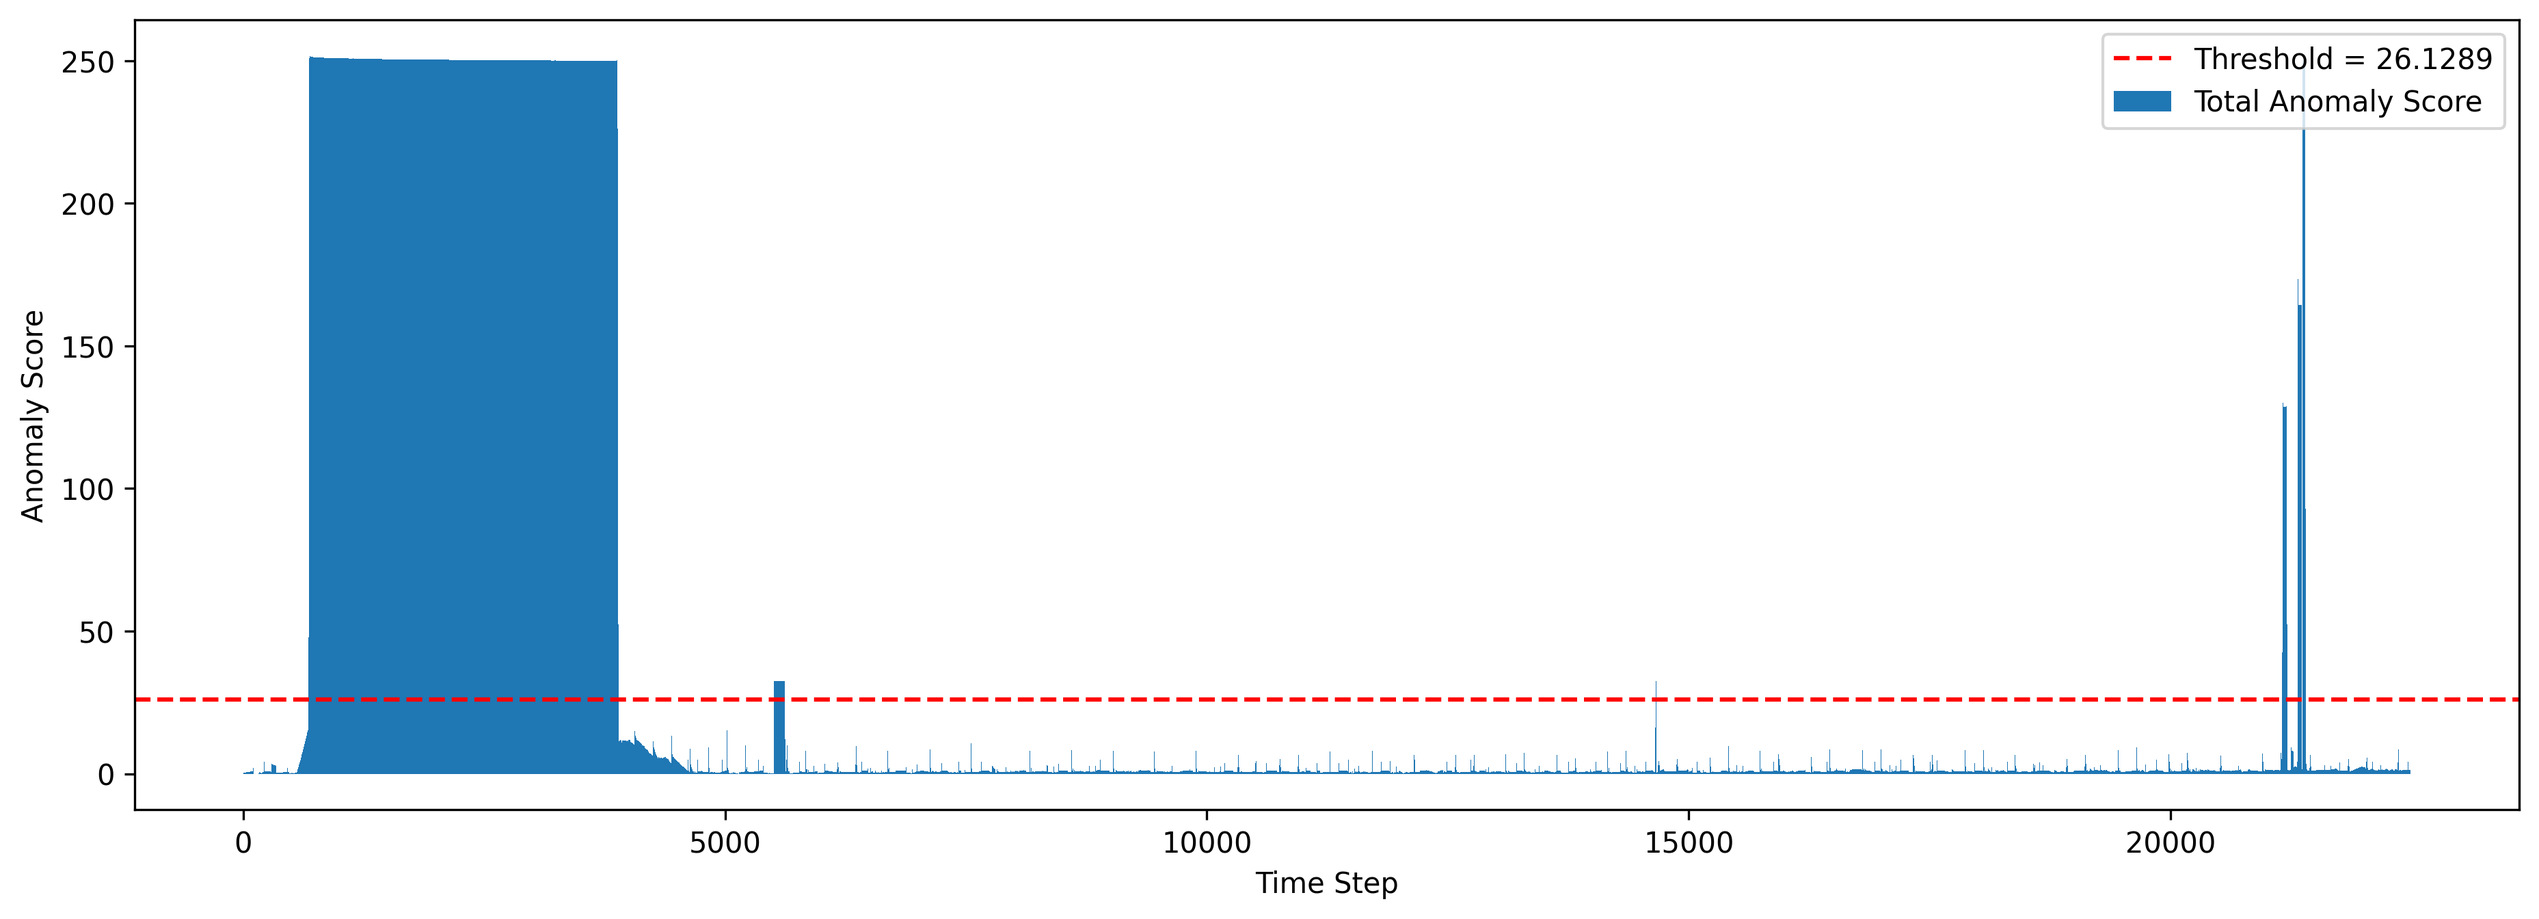
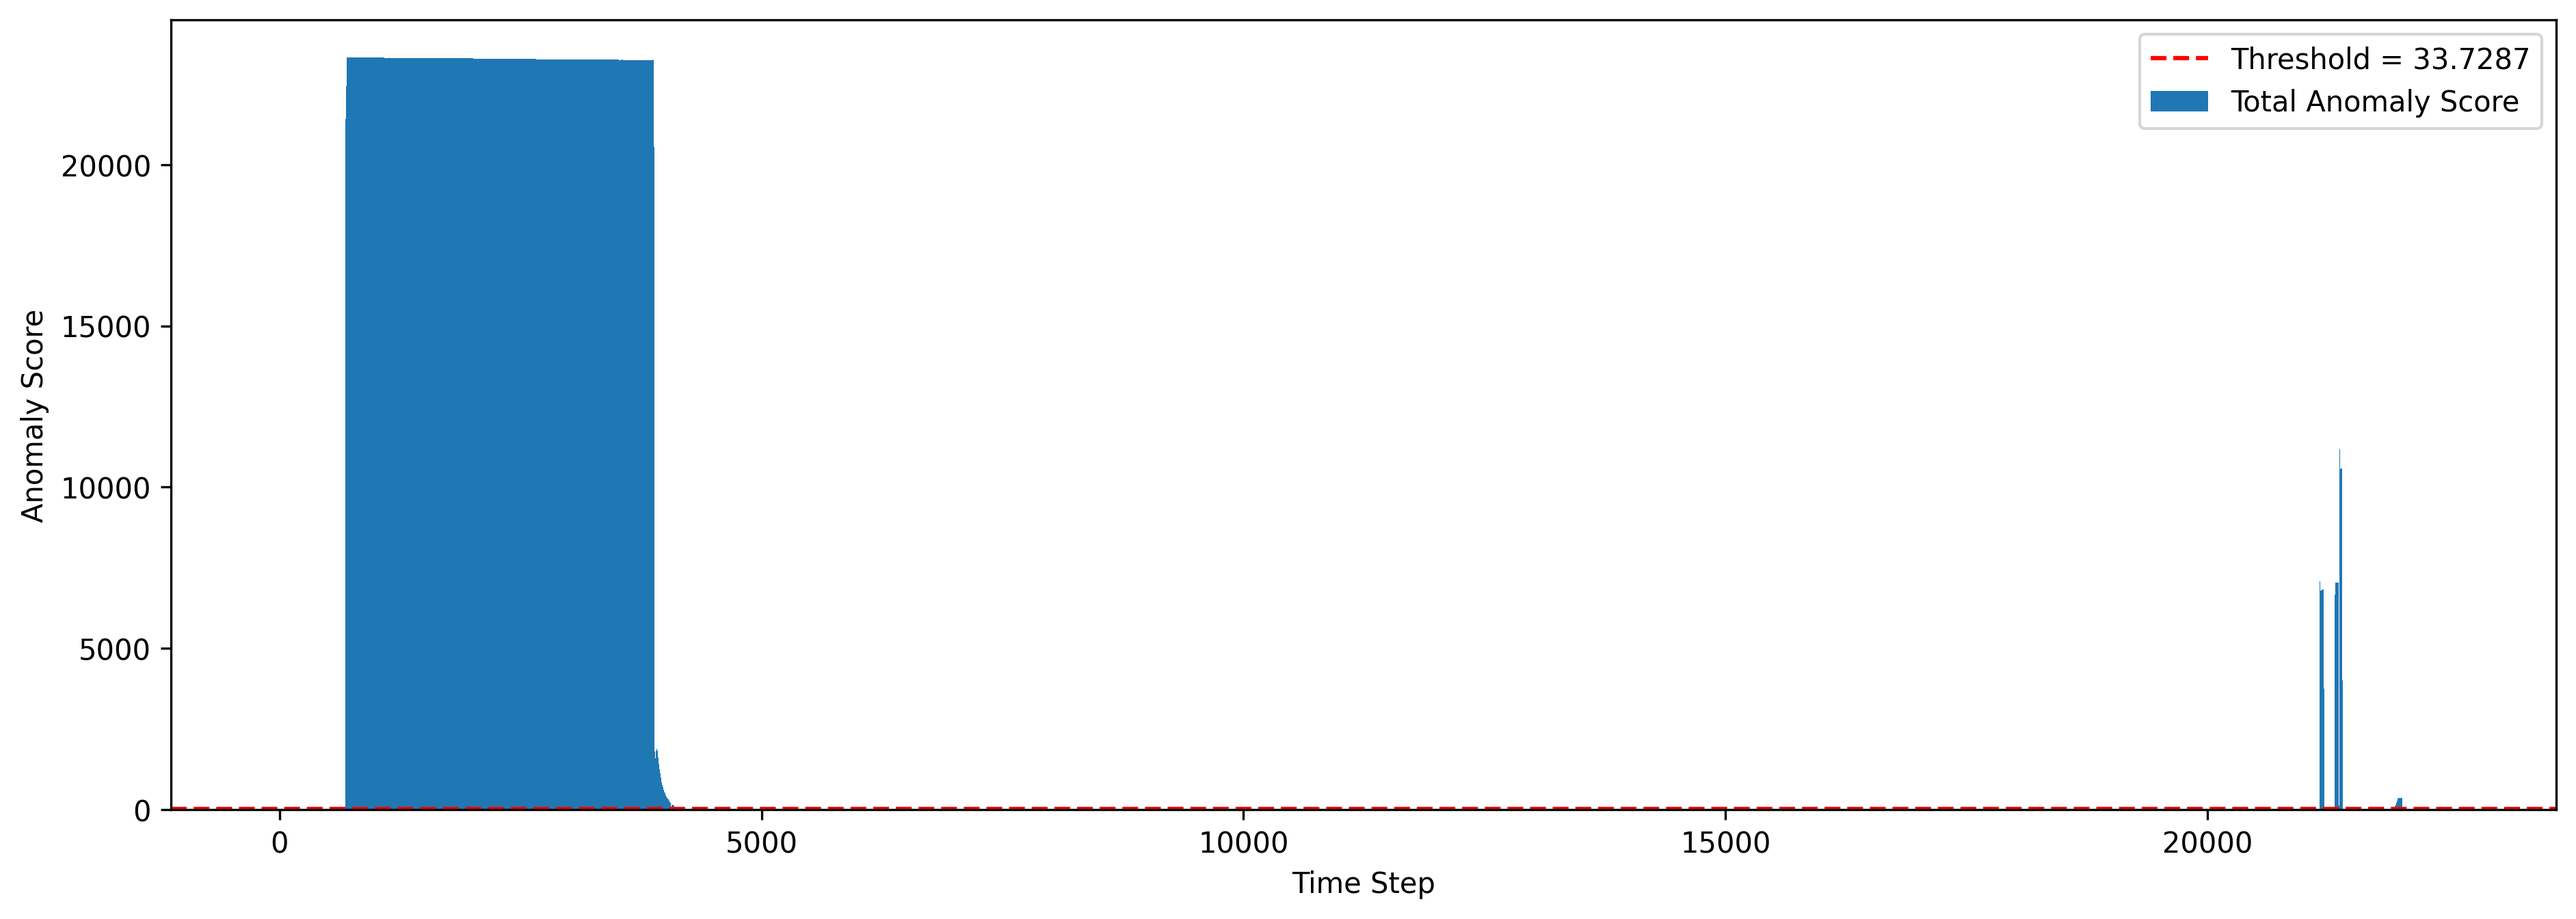
xlsx result csv generate

diff --git a/models/GDN_input_concat.py b/models/GDN_input_concat.py
@@ -1,3 +1,4 @@
+# Here, instead of adding temporal information element-wise to the node representation vector, I directly concatenate it with the input of the existing FCN layer.
 import numpy as np
 import torch
 import matplotlib.pyplot as plt
@@ -33,10 +34,10 @@ class OutLayer(nn.Module):
         for i in range(layer_num):
             # last layer, output shape:1
             if i == layer_num-1:
-                modules.append(nn.Linear(in_num if layer_num == 1 else inter_num, 1))
+                modules.append(nn.Linear( in_num if layer_num == 1 else inter_num, 1))
             else:
                 layer_in_num = in_num if i == 0 else inter_num
-                modules.append(nn.Linear(layer_in_num, inter_num))
+                modules.append(nn.Linear( layer_in_num, inter_num ))
                 modules.append(nn.BatchNorm1d(inter_num))
                 modules.append(nn.ReLU())
 
@@ -57,16 +58,16 @@ class OutLayer(nn.Module):
 
 
 class GNNLayer(nn.Module):
-    def __init__(self, in_channel, out_channel, embed_dim, inter_dim=0, heads=1, node_num=100, model_type="GDN"):
+    def __init__(self, in_channel, out_channel, inter_dim=0, heads=1, node_num=100, model_type="GDN"):
         super(GNNLayer, self).__init__()
 
 
-        self.gnn = GraphLayer(in_channel, out_channel, embed_dim, node_num, inter_dim=inter_dim, heads=heads, concat=False, model_type=model_type)
+        self.gnn = GraphLayer(in_channel, out_channel, node_num, inter_dim=inter_dim, heads=heads, concat=False, model_type=model_type)
         
         if model_type == "GDN":
             self.bn = nn.BatchNorm1d(out_channel)
         else:
-            self.bn = nn.BatchNorm1d(out_channel*2)
+            self.bn = nn.BatchNorm1d(out_channel)
         self.relu = nn.ReLU()
         self.leaky_relu = nn.LeakyReLU()
 
@@ -99,9 +100,10 @@ class GNNLayer(nn.Module):
                 
                 temporal_out = temporal_out.unsqueeze(1).repeat(1, node_num, 1).view(batch_num * node_num, d)
                 
-                out = torch.cat([out, temporal_out], dim=-1)
+                # out = torch.cat([out, temporal_out], dim=-1)
 
                 out = F.relu(out)
+                temporal_out = F.relu(temporal_out)
             else:
                 out = F.relu(out)
         else:
@@ -109,8 +111,9 @@ class GNNLayer(nn.Module):
                 raise ValueError("Choose model_type between [GDN/STGDN]")
 
         out = self.bn(out)
+        temporal_out = self.bn(temporal_out)
         
-        return self.relu(out)
+        return self.relu(out), self.relu(temporal_out)
 
 
 class GDN(nn.Module):
@@ -128,15 +131,15 @@ class GDN(nn.Module):
         if model_type == "GDN":
             embed_dim = dim
         else:
-            embed_dim = dim*2
+            embed_dim = dim
 
         self.embedding = nn.Embedding(node_num, embed_dim)
-        self.bn_outlayer_in = nn.BatchNorm1d(embed_dim)
+        self.bn_outlayer_in = nn.BatchNorm1d(embed_dim*2)
 
 
         edge_set_num = len(edge_index_sets)
         self.gnn_layers = nn.ModuleList([
-            GNNLayer(input_dim, dim, embed_dim, inter_dim=dim+embed_dim, heads=1, node_num=node_num, model_type=model_type) for i in range(edge_set_num)
+            GNNLayer(input_dim, dim, inter_dim=dim+embed_dim, heads=1, node_num=node_num, model_type=model_type) for i in range(edge_set_num)
         ])
 
 
@@ -184,6 +187,7 @@ class GDN(nn.Module):
         time_edge_index = get_batch_edge_index(gated_edge_index, batch_num, all_feature).to(device)
 
         gcn_outs = []
+        tcn_outs = []
         for i, edge_index in enumerate(edge_index_sets):
             edge_num = edge_index.shape[1]
             cache_edge_index = self.cache_edge_index_sets[i]
@@ -217,17 +221,22 @@ class GDN(nn.Module):
 
             batch_gated_edge_index = get_batch_edge_index(gated_edge_index, batch_num, node_num).to(device)
             
-            gcn_out = self.gnn_layers[i](x, batch_gated_edge_index, node_num=node_num*batch_num, embedding=all_embeddings, temporal_x=temporal_x, time_edge_index=time_edge_index, model_type=self.model_type)
+            gcn_out, tcn_out = self.gnn_layers[i](x, batch_gated_edge_index, node_num=node_num*batch_num, embedding=all_embeddings, temporal_x=temporal_x, time_edge_index=time_edge_index, model_type=self.model_type)
 
             
             gcn_outs.append(gcn_out)
+            tcn_outs.append(tcn_out)
 
         x = torch.cat(gcn_outs, dim=1)
         x = x.view(batch_num, node_num, -1)
 
+        tx = torch.cat(tcn_outs, dim=1)
+        tx = tx.view(batch_num, node_num, -1)
 
         indexes = torch.arange(0, node_num).to(device)
         out = torch.mul(x, self.embedding(indexes))
+
+        out = torch.cat([out, tx], dim=-1)
         
         out = out.permute(0,2,1)
         out = F.relu(self.bn_outlayer_in(out))

diff --git a/main.py b/main.py
@@ -166,8 +166,38 @@ class Main():
         return train_dataloader, val_dataloader
 
 
-    def plot_anomaly_scores_with_threshold(self, total_err_scores, threshold, save_path=None):
-        max_anomaly_scores = np.max(total_err_scores, axis=0)
+    def get_top_anomalies_as_dataframe(self, anomaly_score, columns, labels, detection, top_n=10):
+        """
+        :param anomaly_score: Anomaly scores, type: Pandas DataFrame (rows: timestamps, columns: sensors)
+        :param top_n: Number of top anomalies to extract, default is 5
+        :return: Pandas DataFrame with timestamp as index and top anomalies in 1~N columns
+        """
+        anomaly_score.columns = columns
+
+        results = []
+
+        for i, row in anomaly_score.iterrows():
+            top_indices = row.sort_values(ascending=False).index[:top_n]
+            top_scores = row.sort_values(ascending=False).iloc[:top_n]
+
+            result_dict = {str(j + 1): f"{col}: {round(score, 3)}" for j, (col, score) in enumerate(zip(top_indices, top_scores))}
+            result_dict["timestamp"] = i
+            results.append(result_dict)
+
+        result_df = pd.DataFrame(results).set_index("timestamp")
+
+        additional_data = pd.DataFrame()
+        if labels is not None:
+            additional_data['ground truth label'] = labels
+        if detection is not None:
+            additional_data['model prediction'] = detection
+
+        result_df = pd.concat([additional_data, result_df], axis=1)
+
+        return result_df
+
+
+    def plot_anomaly_scores_with_threshold(self, max_anomaly_scores, threshold, save_path=None):
         time_steps = np.arange(len(max_anomaly_scores))
 
         plt.figure(figsize=(15, 5))
@@ -192,9 +222,14 @@ class Main():
 
         test_labels = np_test_result[2, :, 0].tolist()
         adj_labels = np_adj_result[2, :, 0].tolist()
+        # np.save('./test_labels.npy', test_labels)
     
         test_scores, normal_scores = get_full_err_scores(test_result, val_result)
+        ano_scores = np.array(test_scores).T
+        anomaly_df = pd.DataFrame(ano_scores)
 
+        # np.save('./test_scores.npy', test_scores)
+        
         if self.env_config['report'] == 'val':
             top1_adj_info = get_best_performance_data(test_scores, adj_labels, dilation_window, topk=1)
             threshold = top1_adj_info[-1]
@@ -231,8 +266,19 @@ class Main():
 
         fig_path = f'./fig/{self.env_config["save_path"]}/{self.train_config["model_type"]}/total_anomaly.png'
         Path(os.path.dirname(fig_path)).mkdir(parents=True, exist_ok=True)
-        self.plot_anomaly_scores_with_threshold(test_scores, threshold, save_path=fig_path)
+        
+        max_anomaly_scores = np.max(test_scores, axis=0)
+        self.plot_anomaly_scores_with_threshold(max_anomaly_scores, threshold, save_path=fig_path)
 
+        detection = [1 if score > threshold else 0 for score in max_anomaly_scores]
+        detection = detection[train_config['slide_win']:]
+
+        labels = test_labels[train_config['slide_win']:]
+
+        rca_csv = self.get_top_anomalies_as_dataframe(anomaly_df, self.feature_map, labels, detection, top_n=3)
+        csv_save_dir = f'./csv/{self.env_config["save_path"]}'
+        os.makedirs(csv_save_dir, exist_ok=True)
+        rca_csv.to_csv(f'./csv/{self.env_config["save_path"]}/test_result.csv')
 
     def get_save_path(self, feature_name=''):
 

diff --git a/models/graph_layer.py b/models/graph_layer.py
@@ -10,7 +10,7 @@ import math
 import torch.nn.init as init
 
 class GraphLayer(MessagePassing):
-    def __init__(self, in_channels, out_channels, node_num, heads=1, concat=True, model_type="GDN",
+    def __init__(self, in_channels, out_channels, embed_dim, node_num, heads=1, concat=True, model_type="GDN",
                  negative_slope=0.2, dropout=0, bias=True, inter_dim=-1,**kwargs):
         super(GraphLayer, self).__init__(aggr='add', **kwargs)
 
@@ -32,8 +32,8 @@ class GraphLayer(MessagePassing):
             self.att_em_i = Parameter(torch.Tensor(1, heads, out_channels))
             self.att_em_j = Parameter(torch.Tensor(1, heads, out_channels))
         else:
-            self.att_em_i = Parameter(torch.Tensor(1, heads, out_channels*2))
-            self.att_em_j = Parameter(torch.Tensor(1, heads, out_channels*2))
+            self.att_em_i = Parameter(torch.Tensor(1, heads, embed_dim))
+            self.att_em_j = Parameter(torch.Tensor(1, heads, embed_dim))
 
         self.temp_att_i = Parameter(torch.Tensor(1, heads, out_channels))
         self.temp_att_j = Parameter(torch.Tensor(1, heads, out_channels))

diff --git a/models/GDN_multi_temporal.py b/models/GDN_multi_temporal.py
@@ -1,3 +1,4 @@
+# Here, instead of creating a single temporal graph for all sensors in each batch, I generated individual temporal graphs for each sensor within every batch.
 import numpy as np
 import torch
 import matplotlib.pyplot as plt
